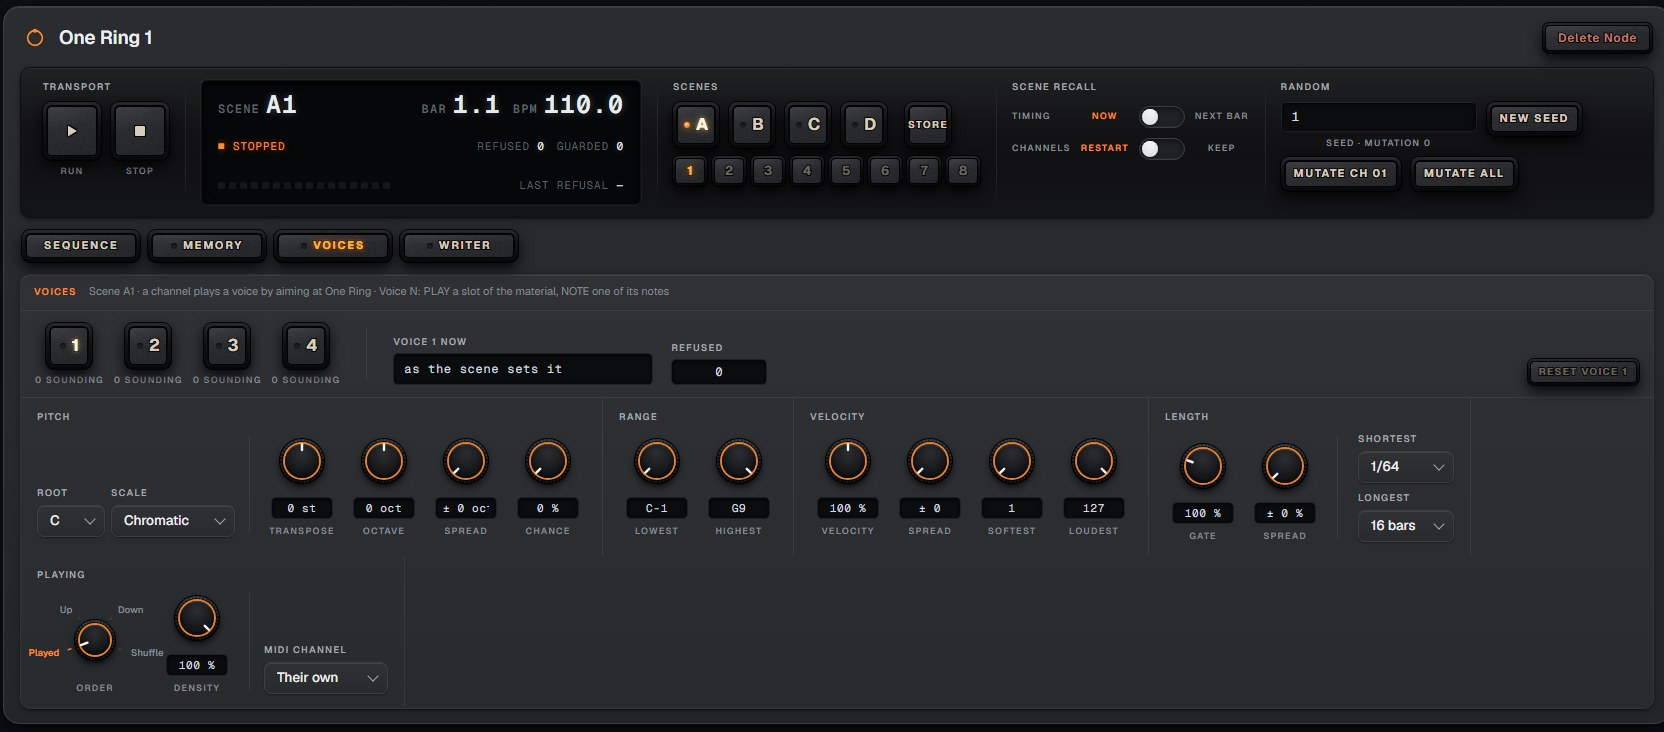
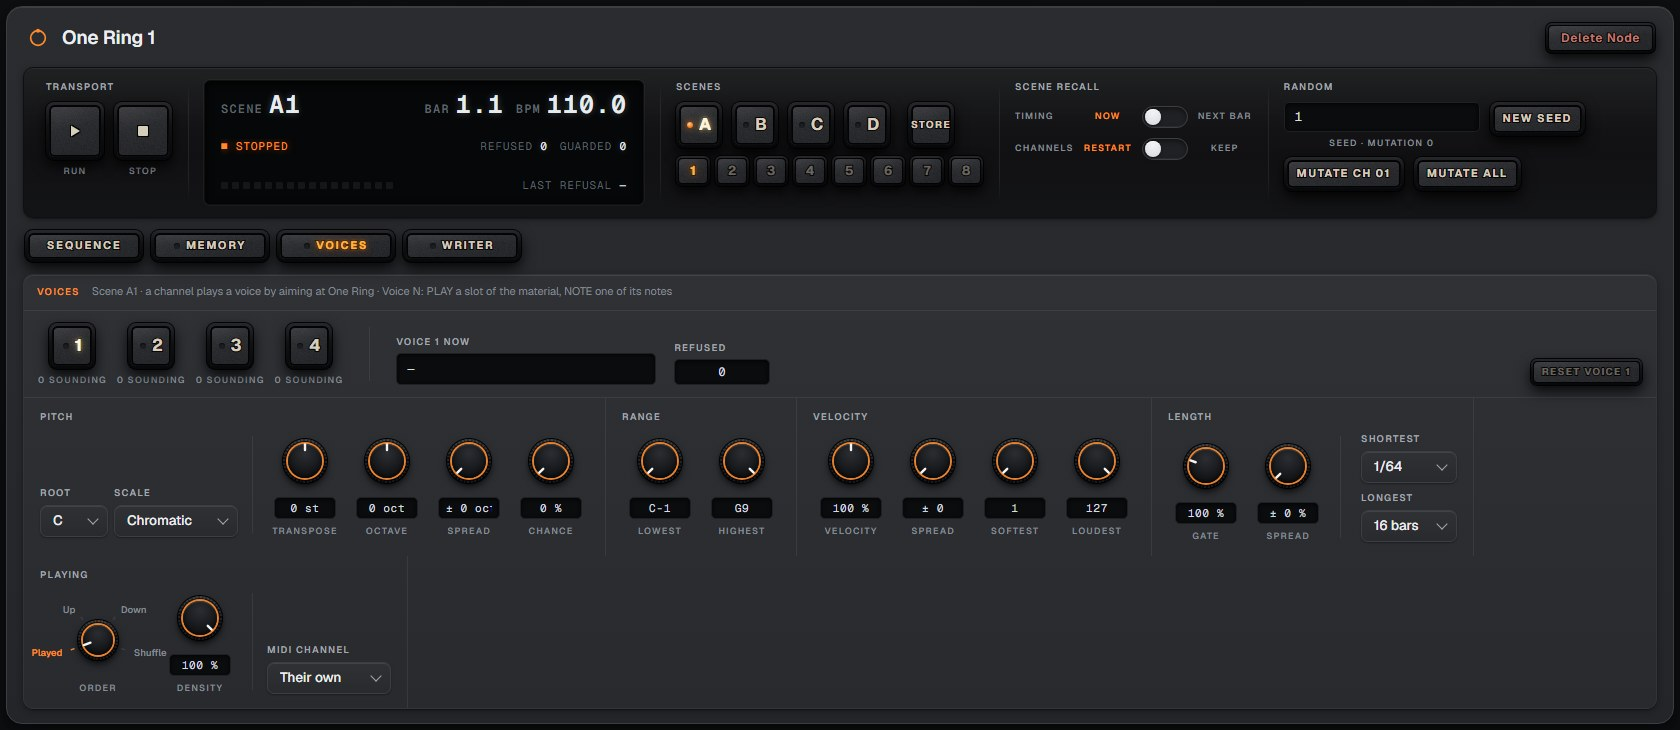
One Ring's voices shot shows the whole page, evenly framed
Its right edge was cut off by the capture; retaken with the page entire and
the same margin all round.

diff --git a/index.html b/index.html
@@ -336,8 +336,8 @@
       <figure class="screen">
         <picture>
           <source srcset="img/one-ring-voices.avif" type="image/avif">
-          <img src="img/one-ring-voices.jpg" width="1664" height="732"
-               alt="One Ring's voices page: voice 1 of four, reading as the scene sets it, with root C and a chromatic scale, transpose and octave at zero, a range from C minus 1 to G 9, velocity at 100 percent with its softest and loudest at 1 and 127, a gate of 100 percent, shortest a sixty-fourth note and longest sixteen bars, an order knob between Played, Up, Down and Shuffle, a density of 100 percent, and a MIDI channel set to Their own.">
+          <img src="img/one-ring-voices.jpg" width="1680" height="730"
+               alt="One Ring's voices page: voice 1 of four, with root C and a chromatic scale, transpose and octave at zero, a range from C minus 1 to G 9, velocity at 100 percent with its softest and loudest at 1 and 127, a gate of 100 percent, shortest a sixty-fourth note and longest sixteen bars, an order knob between Played, Up, Down and Shuffle, a density of 100 percent, and a MIDI channel set to Their own.">
         </picture>
       </figure>
       <p class="caption">One Ring &middot; a voice, its scale, its range, its velocity, and the order it reads the material in</p>
